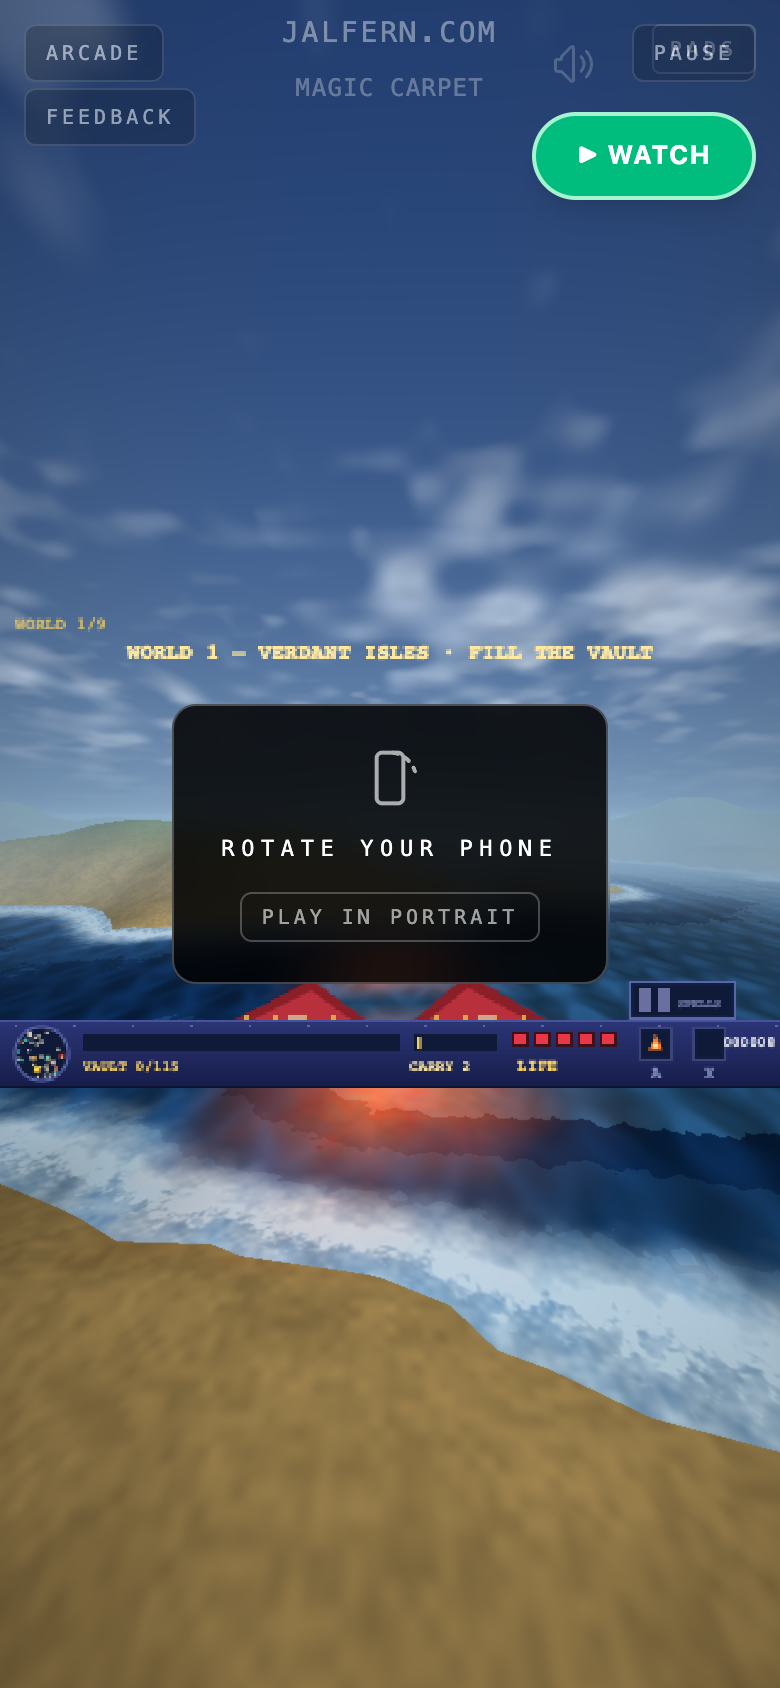
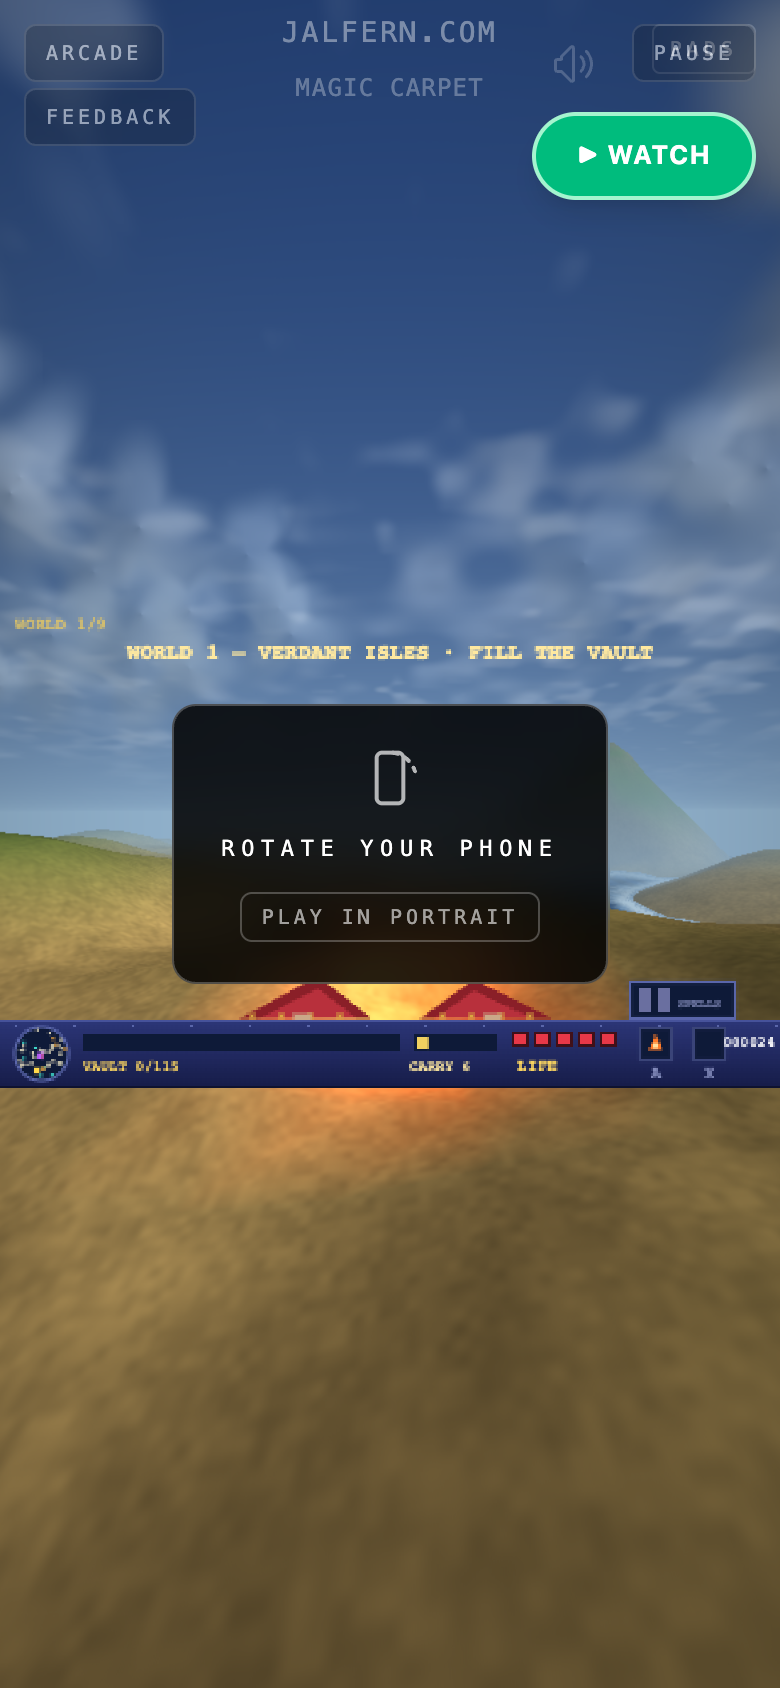
MC #1764 item 8: row-interlaced line-mode stereo (T cycles glass; shutter sync documented hardware-bound) (#1916)
* MC #1764 item 8: row-interlaced line-mode stereo beside anaglyph (T cycles glass, ?stereo=i, mc-stereo-mode persists; sim untouched; carpetcheck +13 gates)

* carpetcheck #1764-8s1: fix gate-side regexes (capture closes at backtick-comma; setter has no inner semicolon)

diff --git a/src/games/MagicCarpet/index.jsx b/src/games/MagicCarpet/index.jsx
@@ -159,14 +159,24 @@ const MagicCarpetGame = () => {
         // #1790 ANAGLYPH STEREO: `?stereo=1` wins (a phone's only hand — there
         // is no keyboard in a URL bar's reach the other way), then the last
         // choice; V flips it live. The sim never hears about stereo.
+        // #1764 item 8: `?stereo=i` (=interlace) opens on row-alternate line
+        // mode; the glass type persists beside the power in its own key.
         let stereo = (() => {
             try {
                 const q = new URLSearchParams(window.location.search).get('stereo')
                 if (q === '1' || q === '0') return q === '1'
+                if (q === 'i' || q === 'interlace') return true
                 return localStorage.getItem('mc-stereo') === '1'
             } catch { return false }
         })()
-        if (renderer) renderer.setStereo(stereo)
+        let stereoMode = (() => {
+            try {
+                const q = new URLSearchParams(window.location.search).get('stereo')
+                if (q === 'i' || q === 'interlace') return 'interlace'
+                return localStorage.getItem('mc-stereo-mode') === 'interlace' ? 'interlace' : 'anaglyph'
+            } catch { return 'anaglyph' }
+        })()
+        if (renderer) { renderer.setStereo(stereo); renderer.setStereoMode(stereoMode) }
 
         let gs = makeGame(7)
         let demoSeed = 7, demoT = 0
@@ -727,13 +737,24 @@ const MagicCarpetGame = () => {
             ctx.fillText(`WORLD ${gs.level + 1}/${LEVELS.length}`, 6, 12)
             // #1790 glasses reminder: two colored pips, red-over-cyan, when the
             // anaglyph is live. Small, top-left, out of the radar's way.
+            // #1764 item 8: line mode is not colour-coded — it wears a striped
+            // pip pair (two eyes, alternating lines) instead of red/cyan.
             if (stereo) {
                 ctx.fillStyle = 'rgba(14, 26, 56, 0.8)'
                 ctx.fillRect(5, 15, 30, 8)
-                ctx.fillStyle = '#ff4848'
-                ctx.fillRect(8, 17, 4, 4)
-                ctx.fillStyle = '#48e0e0'
-                ctx.fillRect(14, 17, 4, 4)
+                if (stereoMode === 'interlace') {
+                    ctx.fillStyle = '#e8e8f0'
+                    ctx.fillRect(8, 17, 2, 4)
+                    ctx.fillRect(12, 17, 2, 4)
+                    ctx.fillStyle = '#5878b8'
+                    ctx.fillRect(10, 17, 2, 4)
+                    ctx.fillRect(14, 17, 2, 4)
+                } else {
+                    ctx.fillStyle = '#ff4848'
+                    ctx.fillRect(8, 17, 4, 4)
+                    ctx.fillStyle = '#48e0e0'
+                    ctx.fillRect(14, 17, 4, 4)
+                }
                 ctx.fillStyle = '#ffd860'
                 ctx.font = '5px monospace'
                 ctx.fillText('3D', 21, 21)
@@ -1063,7 +1084,24 @@ const MagicCarpetGame = () => {
                 if (renderer) renderer.setStereo(stereo)
                 try { localStorage.setItem('mc-stereo', stereo ? '1' : '0') } catch { /* private mode */ }
                 audioController.playTone(stereo ? 880 : 620, 0.05, 'square', 0.05)
-                say(stereo ? 'ANAGLYPH ON — WEAR THE GLASSES' : 'STEREO OFF')
+                say(stereo ? (stereoMode === 'interlace' ? 'INTERLACED 3D ON' : 'ANAGLYPH ON — WEAR THE GLASSES') : 'STEREO OFF')
+                return
+            }
+            // #1764 item 8: T cycles the glass type — red/cyan anaglyph to
+            // row-alternate line mode and back. Pressing it while the glasses are
+            // off puts them ON at the new glass (a mode press must show you the
+            // mode). Same any-screen law as V.
+            if (e.code === 'KeyT' && !e.repeat) {
+                stereoMode = stereoMode === 'anaglyph' ? 'interlace' : 'anaglyph'
+                if (renderer) renderer.setStereoMode(stereoMode)
+                stereo = true
+                if (renderer) renderer.setStereo(true)
+                try {
+                    localStorage.setItem('mc-stereo-mode', stereoMode)
+                    localStorage.setItem('mc-stereo', '1')
+                } catch { /* private mode */ }
+                audioController.playTone(stereoMode === 'interlace' ? 980 : 880, 0.05, 'square', 0.05)
+                say(stereoMode === 'interlace' ? 'INTERLACED 3D — ROWS ALTERNATE EYES' : 'ANAGLYPH ON — WEAR THE GLASSES')
                 return
             }
             if (['ArrowLeft', 'ArrowRight', 'ArrowUp', 'ArrowDown', 'Space'].includes(e.code)) e.preventDefault()
@@ -1361,6 +1399,13 @@ const MagicCarpetGame = () => {
                 // persistence gates press the real V key instead.
                 stereo: () => stereo,
                 setStereo: (on) => { stereo = !!on; if (renderer) renderer.setStereo(stereo); return stereo },
+                // #1764 item 8: glass type is a separate lever for the harness.
+                stereoMode: () => stereoMode,
+                setStereoMode: (m) => {
+                    stereoMode = m === 'interlace' ? 'interlace' : 'anaglyph'
+                    if (renderer) renderer.setStereoMode(stereoMode)
+                    return stereoMode
+                },
                 ipd: () => (renderer ? renderer.stereoIPD() : 0),
                 pixels: (x, y, w, h) => {
                     if (!renderer) return null

diff --git a/src/games/MagicCarpet/renderer.js b/src/games/MagicCarpet/renderer.js
@@ -840,12 +840,29 @@ void main(){
 }
 `, { uL: { value: null }, uR: { value: null } }))
     const scAnaglyph = mkScene(anaglyphMesh)
+    // #1764 item 8: ROW-INTERLACED stereo — the shutter-era "line mode": every
+    // other scan line carries the other eye (even physical rows left, odd right;
+    // gl_FragCoord.y = row + 0.5, so floor(y) is the row index). Row-alternate
+    // was how soft stereo reached row-interlaced LCD panels and shutter glasses
+    // without a channel hack — each eye gets the full colour at half the vertical
+    // lines, the inverse trade of anaglyph. No ghost-crush: same period law.
+    const interlaceMesh = new THREE.Mesh(quad, qmat(`
+precision highp float; uniform sampler2D uL, uR; varying vec2 vQ;
+void main(){
+    gl_FragColor = mod(floor(gl_FragCoord.y), 2.0) < 1.0 ? texture2D(uL, vQ) : texture2D(uR, vQ);
+}
+`, { uL: { value: null }, uR: { value: null } }))
+    const scInterlace = mkScene(interlaceMesh)
     // #1790 eye separation, world units. At the carpet's own scale (pearls hover
     // ~10u away, the castle tens of units) this is a strong-but-comfortable pop:
     // ~9 px of parallax at arm's length, ~1 px at the horizon — parallel view,
     // converged at infinity, the same cheat every stereo card of the era used.
     const IPD = 0.60
     let stereo = false
+    // #1764 item 8: which combine the glasses-free mode uses — 'anaglyph' (the
+    // #1790 default) or 'interlace' (row-alternate lines). Power (stereo) and
+    // glass type (stereoMode) are separate switches: V flips power, T cycles glass.
+    let stereoMode = 'anaglyph'
 
     // ---- CPU particle pool → instanced quads
     const parts = []
@@ -1410,10 +1427,19 @@ void main(){
             renderEye(false)
             renderer.setRenderTarget(rtEyeR); renderer.render(scComp, quadCam)
             camera.position.addScaledVector(right, -IPD * 0.5) // restore the head
-            anaglyphMesh.material.uniforms.uL.value = rtEyeL.texture
-            anaglyphMesh.material.uniforms.uR.value = rtEyeR.texture
-            renderer.setRenderTarget(null)
-            renderer.render(scAnaglyph, quadCam)
+            if (stereoMode === 'interlace') {
+                // #1764 item 8: row-alternate line mode — both eyes at full colour,
+                // every other scan line to the other eye (the shader owns parity).
+                interlaceMesh.material.uniforms.uL.value = rtEyeL.texture
+                interlaceMesh.material.uniforms.uR.value = rtEyeR.texture
+                renderer.setRenderTarget(null)
+                renderer.render(scInterlace, quadCam)
+            } else {
+                anaglyphMesh.material.uniforms.uL.value = rtEyeL.texture
+                anaglyphMesh.material.uniforms.uR.value = rtEyeR.texture
+                renderer.setRenderTarget(null)
+                renderer.render(scAnaglyph, quadCam)
+            }
         } else {
             renderEye(true)
             renderer.setRenderTarget(null)
@@ -1436,6 +1462,10 @@ void main(){
         setStereo: (on) => { stereo = !!on },
         stereoOn: () => stereo,
         stereoIPD: () => IPD,
+        // #1764 item 8: the glass type is its own switch — 'anaglyph' | 'interlace'.
+        // Anything unknown lands on the #1790 default, never on a dark screen.
+        setStereoMode: (m) => { stereoMode = m === 'interlace' ? 'interlace' : 'anaglyph' },
+        stereoModeName: () => stereoMode,
         particleCount: () => parts.length,
         ashCount: () => parts.reduce((n, p) => n + (p.kind === 'ash' ? 1 : 0), 0),
         smokeCount: () => smoke.geo.instanceCount,

diff --git a/src/games/MagicCarpet/README.md b/src/games/MagicCarpet/README.md
@@ -404,8 +404,14 @@ see item 5).
   anaglyph ships — the world renders twice from ±0.60u parallel cameras and
   the post chain combines left→red / right→cyan (bloom is shared; the HUD
   stays flat mono). `V` toggles, `?stereo=1` opens on a fresh link, the
-  choice persists. Still open: LCD-shutter/interlace modes — the last stereo gap is LCD-shutter/
-  interlace stereo; the HRTF half of #1746 item 7 shipped at stage 5 (below).
+  choice persists. **Line mode closed by #1764 item 8:** `T` cycles the glass
+  — anaglyph ↔ ROW-INTERLACED line mode (even physical rows to the left eye,
+  odd to the right, both at full colour; a glass press from off puts the
+  glasses ON at the new type). `?stereo=i` opens line mode on a fresh link;
+  the type persists in `mc-stereo-mode` beside the power. What no browser can
+  ship is the shutter half: LCD-shutter glasses need a hardware sync signal a
+  page cannot emit — interlace was their software feed, and that part is here;
+  the shutter sync itself stays hardware-bound, not a gap of this engine.
 - Water is shader waves with self-shadowing, sun-linked sparkle and foam lace
   tracing the shoreline. **CLOSED by #1764 item 4 stage 1:** the depth bands are
   now hard 4-level bands whose palette index marches one level every 6 sim ticks
